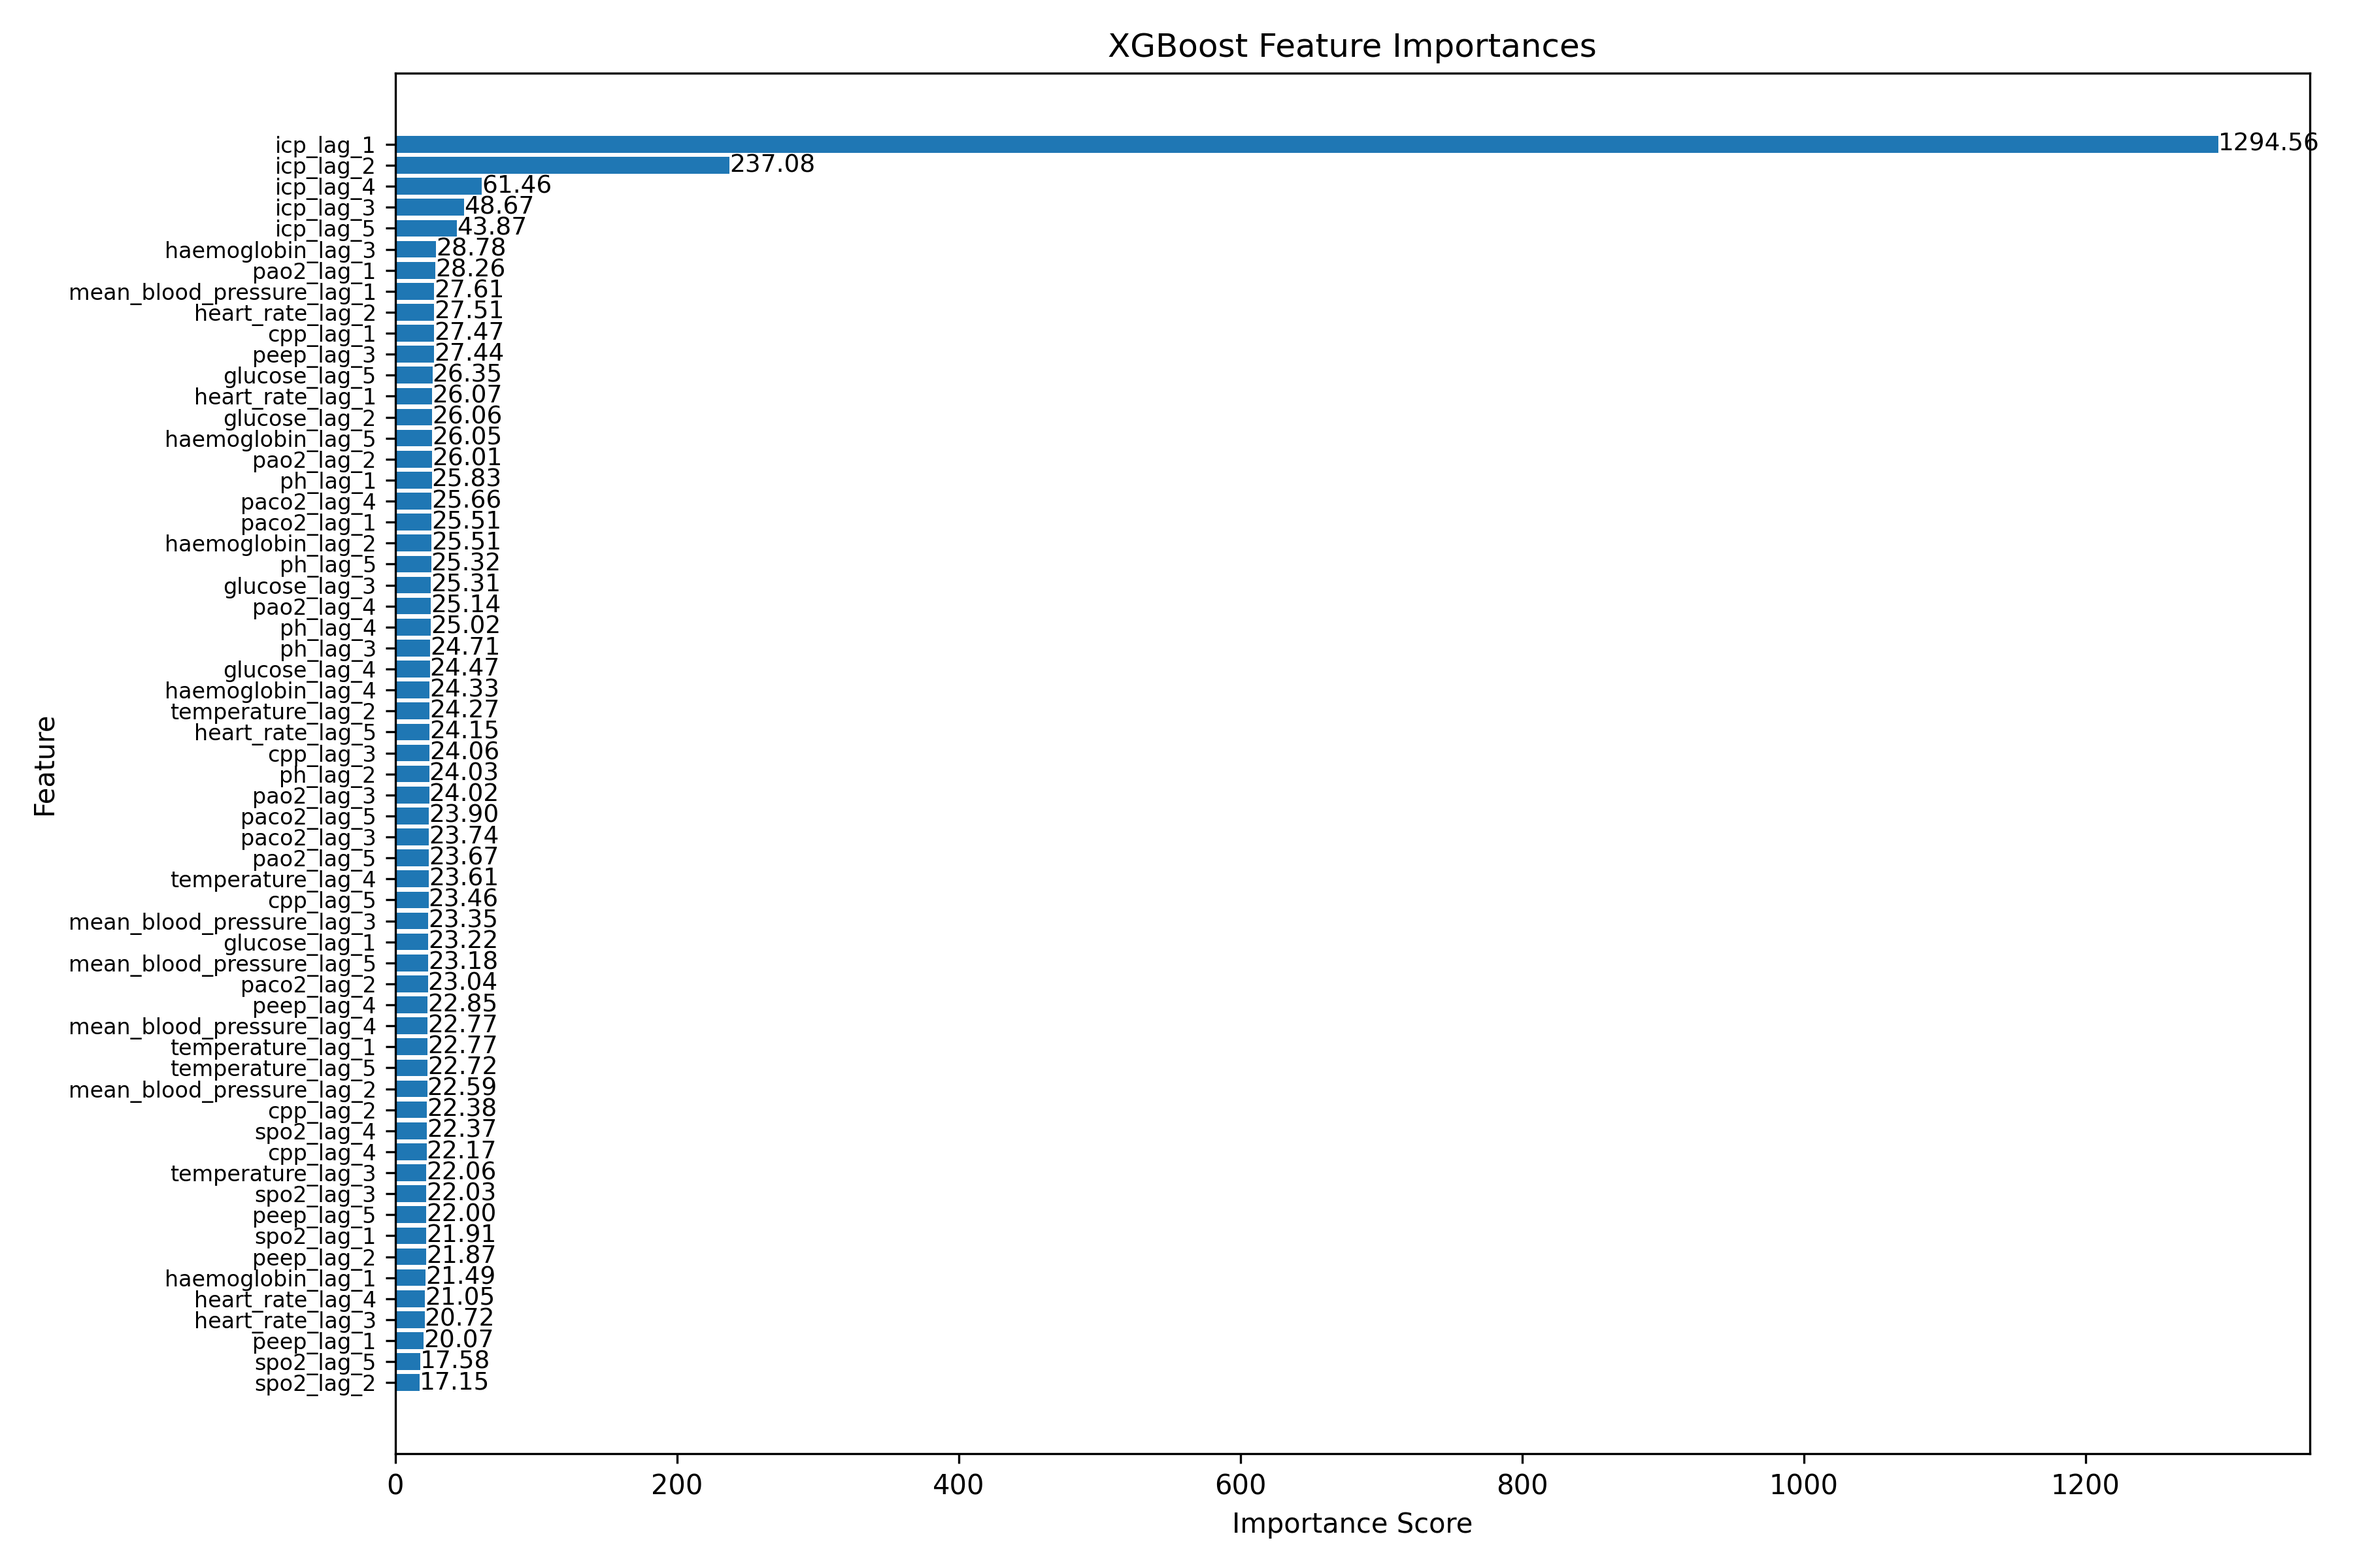
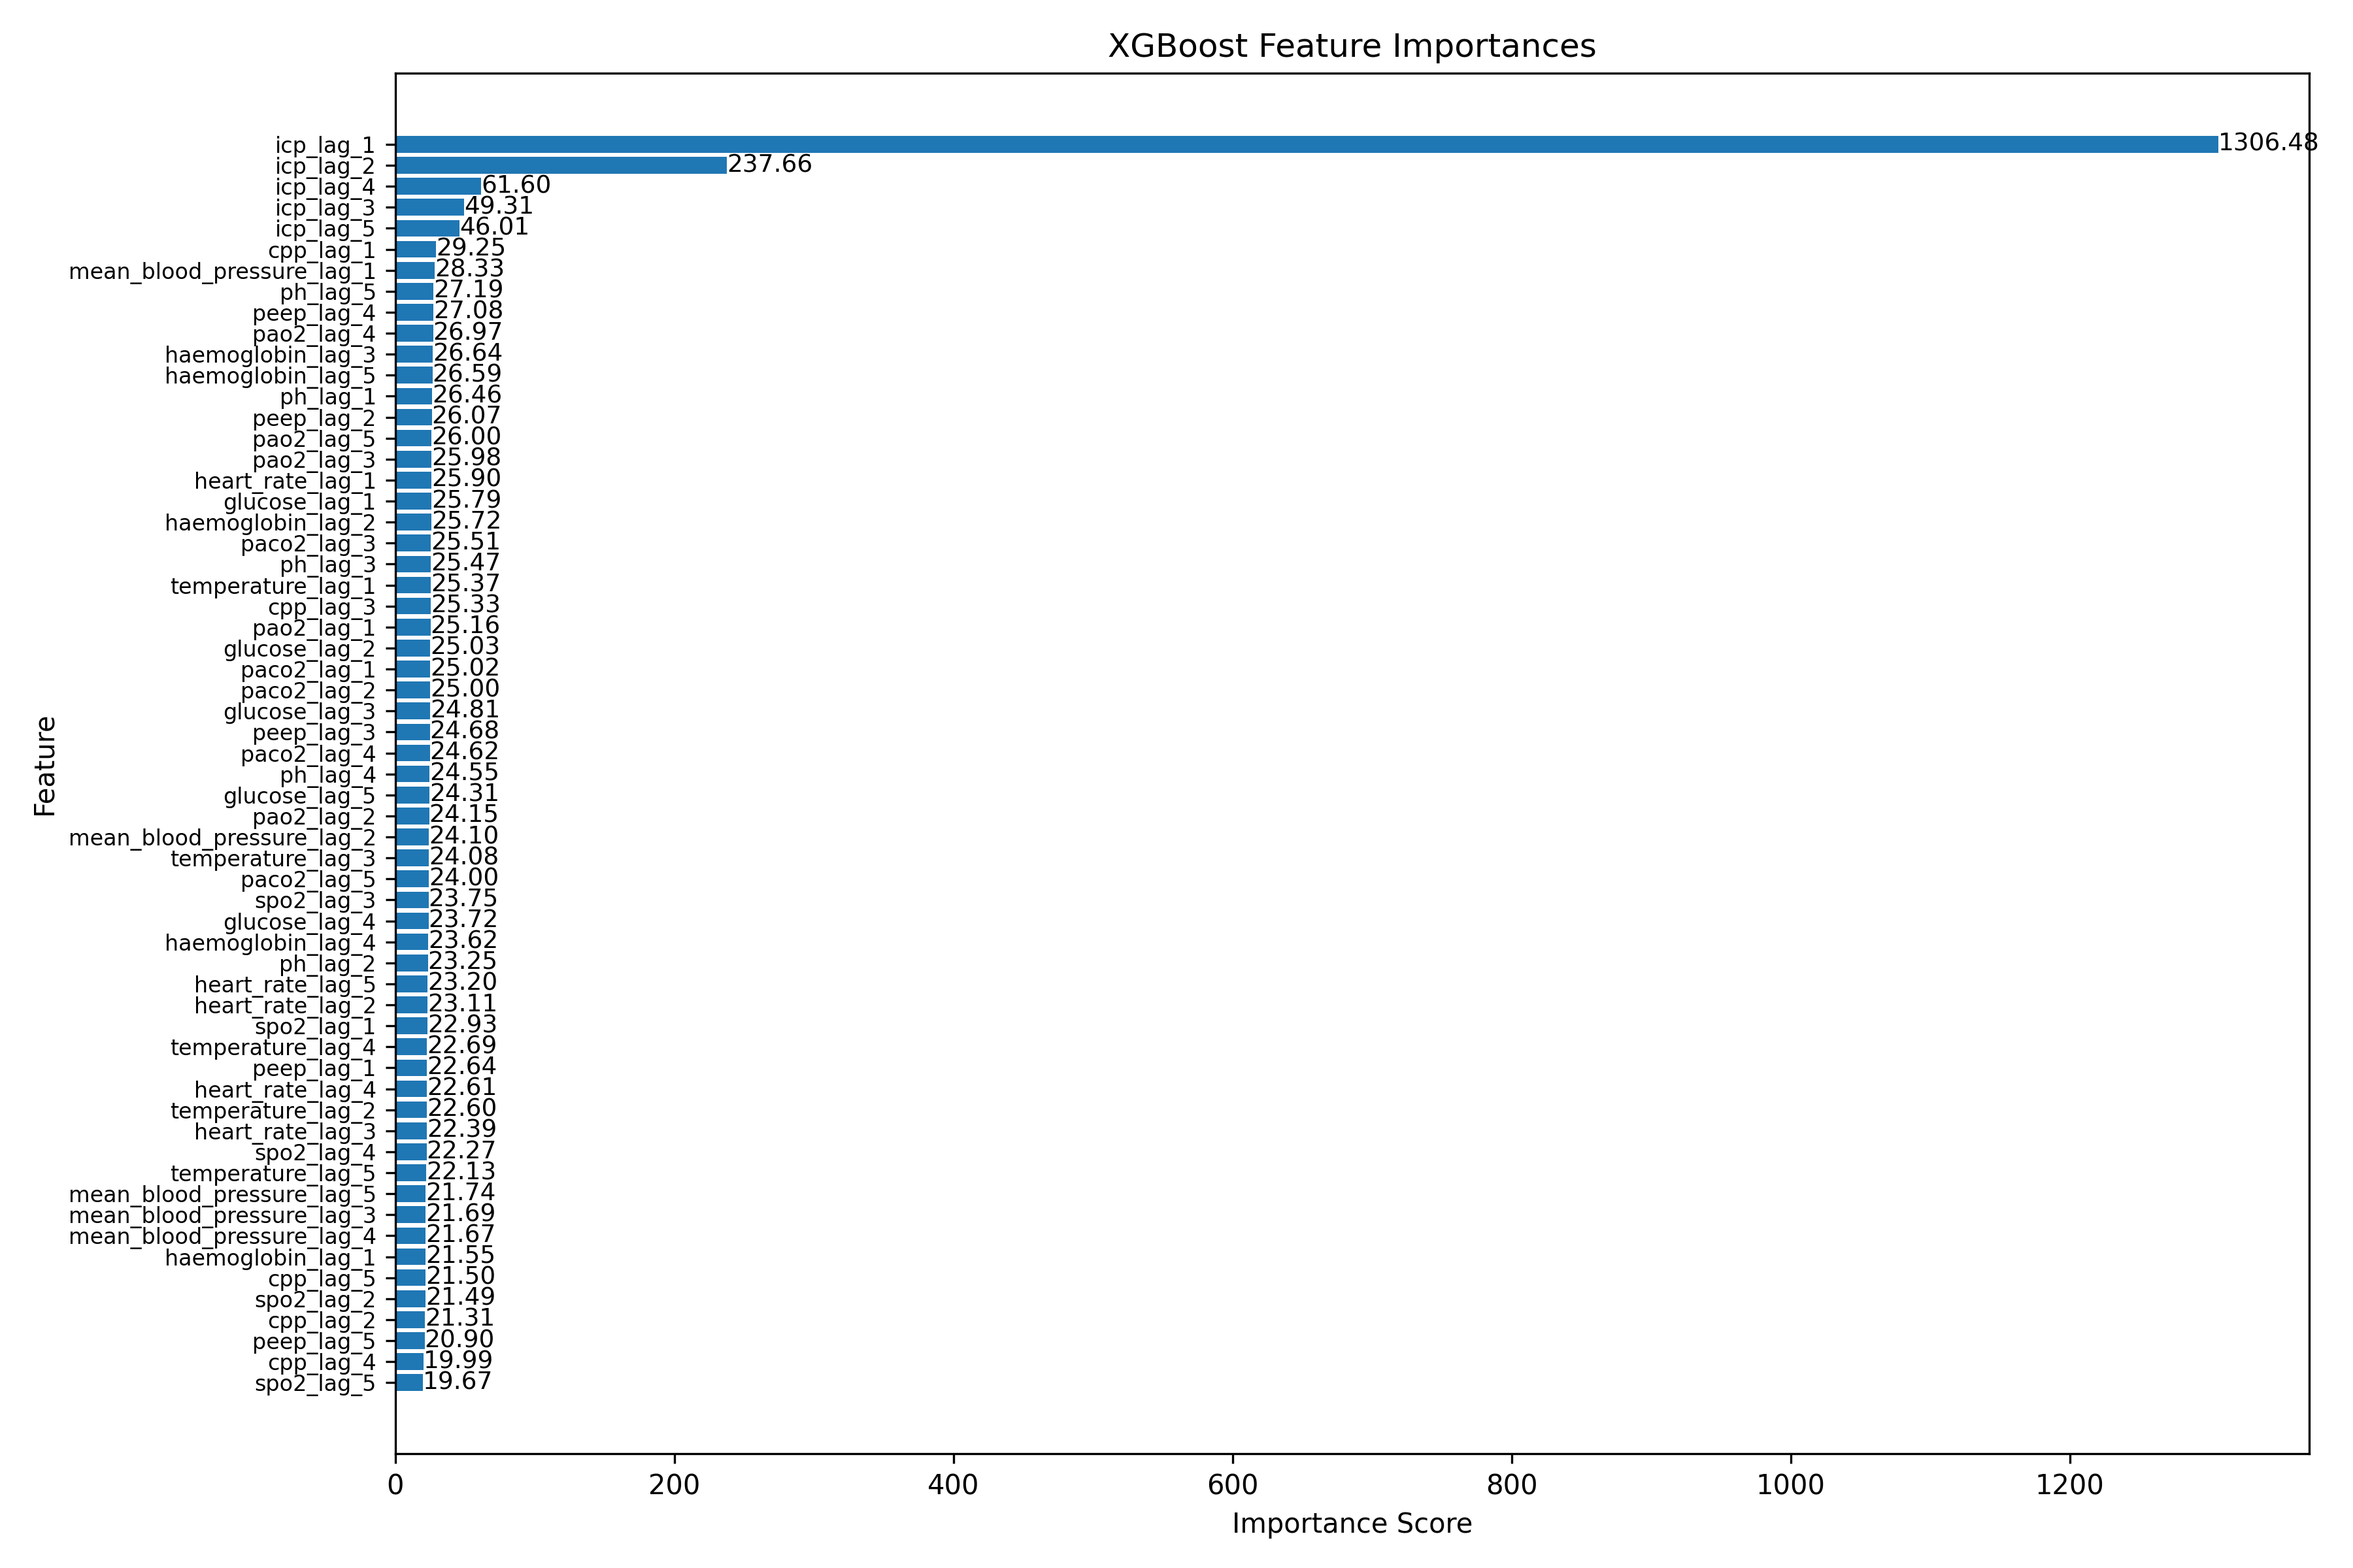
added comments back

diff --git a/src/classification/xgboost_classification_predictor.py b/src/classification/xgboost_classification_predictor.py
@@ -5,12 +5,27 @@ import numpy as np
 
 class XGBoostClassificationPredictor:
 
+    """
+    A class that uses the XGboost algorithm to predict abnormal Intracranial Pressure Values
+    """
+
     def _select_features(self, X):
+        """Add commentMore actions
+        Select only lagged features for XGBoost classification.
+        """
         columns_to_exclude = ["patient_id", "date_of_birth", "timestamp"]
         lagged_cols = [col for col in X.columns if 'lag' in col]
         return X[lagged_cols + [col for col in columns_to_exclude if col in X.columns]]
 
     def run_pipeline(self, X_train, X_test, y_train, y_test):
+        """Add commentMore actions
+        Run the pipeline to train and evaluate the model.
+        Args:
+            X_train (pd.DataFrame): Training features.
+            X_test (pd.DataFrame): Testing features.
+            y_train (pd.Series): Training target variable.
+            y_test (pd.Series): Testing target variable.
+        """
         X_train = self._select_features(X_train)
         X_test = self._select_features(X_test)
 
@@ -26,18 +41,43 @@ class XGBoostClassificationPredictor:
         return results
 
     def _perform_normalization(self, X_train, X_test, columns_to_exclude):
+        """Add commentMore actions
+        Performs MinMax scaling on the training and testing data.
+
+        Args:
+            X_train (pd.DataFrame): Training features.
+            X_test (pd.DataFrame): Testing features.
+            columns_to_exclude (list): List of columns to exclude from scaling.
+
+        Returns:
+            tuple: A tuple containing the scaled training DataFrame (pd.DataFrame)
+                   and the scaled testing DataFrame (pd.DataFrame).
+        """
         scaler = MinMaxScaler()
         columns_to_scale = [col for col in X_train.columns if col not in columns_to_exclude]
 
+        # Create copies to avoid modifying original dataframes
         X_train_scaled = X_train.copy()
         X_test_scaled = X_test.copy()
 
+        # Fit scaler on training data and transform both train and test
         X_train_scaled[columns_to_scale] = scaler.fit_transform(X_train[columns_to_scale])
+        # for the test set, we only transform (without fitting)
         X_test_scaled[columns_to_scale] = scaler.transform(X_test[columns_to_scale])
 
         return X_train_scaled, X_test_scaled
 
     def classification(self, X_train, X_test, y_train, y_test):
+        """Add commentMore actions
+        Trains and evaluates the XGBoost classifier.
+        Args:
+            X_train: Normalized training features.
+            X_test: Normalized testing features.
+            y_train: Training target variable.
+            y_test: Testing target variable.
+        Returns:
+            dict: A dictionary containing the results of the classification.
+        """
         model_params = {
             'booster': 'gbtree',
             'objective': 'binary:logistic',
